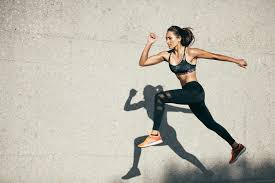
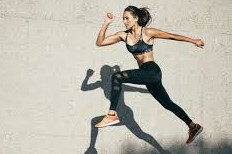
Routine card redesign, background color

diff --git a/routines.html b/routines.html
@@ -315,7 +315,7 @@
     </div>
 
     <div class="navbar-nav ml-auto">
-      <div class="dropdown">
+      <div class="dropdown user-menu">
         <span class="dropdown-toggle user text-white" data-toggle="dropdown">User</span>
         <ul class="dropdown-menu mt-2 px-3 py-2">
           <a id="dropdown-home" href="routines.html"><li>My profile</li></a>
@@ -327,49 +327,35 @@
 
   </nav>
 
-  <div class="container">
-    <div class="card ui mt-3 mb-3">
-      <div class="card-header ui"><h4 class="welcome-title">Welcome, <span class="user">User</span></h4></div>
-
-      <div class="card-body ui px-5">
-        <div class="title">
-          <h3 class="text-center my-routines-title"><i class="fas fa-spinner fa-spin ml-3"></i> </h3>
-        </div>
-        <div class="owl-carousel owl-theme mt-3 my-routines"></div>
-        <div class="title">
-          <h3 class="shared-title"></h3>
-        </div>
-        <div class="owl-carousel owl-theme mt-3 recommended"></div>
-      </div>
-
-
+  <div class="container" id="routines-container">
+    <div class="title">
+      <h3 class="my-routines-title"><i class="fas fa-spinner fa-spin ml-3"></i> </h3>
     </div>
+    <div class="owl-carousel owl-theme mt-3 my-routines"></div>
+    <div class="title">
+      <h3 class="shared-title"></h3>
+    </div>
+    <div class="owl-carousel owl-theme mt-3 recommended"></div>
     <div class="quote"></div>
     <div class="quote-author text-right"></div>
   </div>
 
 
-  <div class="template card routinecard text-white bg-info mb-3" style="max-width: 18rem;">
-    <div class="card-header px-2">
-      <div class="row no-gutters">
-        <div class="col-1"></div>
-        <div class="col-10 title-column"><i class="routinecard-title">Routine name</i></div>
-        <div class="col-1">
-          <div class="dropdown">
-            <i class="fas fa-ellipsis-v card-menu" data-toggle="dropdown"></i>
-            <ul class="dropdown-menu dropdown-menu-right mt-2">
-              <li class="card-option delete-routine px-2 py-1">Delete routine</li>
-              <li class="card-option edit-routine px-2 py-1">Edit routine</li>
-            </ul>
-          </div>
-        </div>
+  <div class="template routinecard text-white bg-info mb-3" style="max-width: 18rem;">
+    <div class="card-top px-2">
+      <div class="routinecard-title">Routine name</div>
+      <div class="dropdown">
+        <i class="fas fa-ellipsis-v card-menu" data-toggle="dropdown"></i>
+        <ul class="dropdown-menu dropdown-menu-right mt-2">
+          <li class="card-option delete-routine px-2 py-1">Delete routine</li>
+          <li class="card-option edit-routine px-2 py-1">Edit routine</li>
+        </ul>
       </div>
     </div>
-    <div class="card-body py-2">
-      <div id="type">Type:</div>
-      <div id="duration">Duration:</div>
-      <div class="launch-routine mt-2" data="routine-id">
-        Go <i class="fa fa-angle-double-right"></i>
+    <div class="card-bottom py-2">
+      <div class="clock"> &#128337;<span class="duration"></span></div>
+      <div class="launch-container">
+        <div class="launch-routine" data="routine-id" > Go <i class="fa fa-angle-double-right"></i></div>
       </div>
     </div>
   </div>            

diff --git a/styles/routines.css b/styles/routines.css
@@ -2,27 +2,92 @@
     margin: 0px
 }
 
+#routines-container {
+    margin-top: 50px;
+}
+
 .routinecard{ 
     text-align: center; 
     position: relative;  
-    color: #222;
+    border-radius: 5px;
+    overflow: hidden;
+    max-width: 250px;
 }
 
-.title-column{
-    height: 24px;
+.yoga {
+    background-image: url(../images/yoga.jpeg);
+}
+
+.strength {
+    background-image: url(../images/strength.jpg);
+}
+
+.cardio {
+    background-image: url(../images/cardio.jpeg);
+}
+
+.card-top {
+    height: 130px;
+    background-size: cover;
+    background-position: center;
+    position: relative;
+    display: flex;
+    justify-content: center;
+    align-items: center;
+    color: #ffffff;
+}
+
+.card-top::before {
+    content: "";
+    top: 0;
+    left: 0;
+    bottom: 0;
+    right: 0;
+    position: absolute;
+    background: rgba(0, 0, 0, 0.5);
+    z-index: 1;
+}
+
+.dropdown {
+    position: absolute;
+    top: 5px;
+    right: 10px;
+    z-index: 2;
 }
 
 .routinecard-title{
     display: inline-block;
     width: 100%;
-    text-overflow: ellipsis;
-    white-space: nowrap;
-    overflow: hidden;
+    word-wrap: normal;
+    z-index: 2;
+    font-size: 1.2em;
+    font-weight: bold;
+}
+
+.card-bottom {
+    display: flex;
+    color: #ffffff;
+    background-color: #0275d8;
+}
+
+.clock {
+    padding-left: 10px;
+}
+
+.launch-container {
+    color: #ffffff;
+    cursor: pointer;
+    flex-grow: 1;
+    display: flex;
+    justify-content: flex-end;
 }
 
 .launch-routine {
-    color: black;
-    cursor: pointer;
+    display: inline-block;
+    margin-right: 10px;
+    padding: 0px 5px;
+    text-align: center;
+    border-radius: 2px;
 }
 
 .launch-routine:hover {
@@ -34,14 +99,14 @@
 }
 
 .quote {
-    color: #ffffff;
+    color: #3d3d3d;
     padding: 2rem;
     font-size: 1.7rem;
     font-style: italic;
 }
 
 .quote-author {
-    color: #ffffff;
+    color: #3d3d3d;
     padding-right: 6rem;
     padding-bottom: 2rem; 
     font-size: 1.5rem;

diff --git a/scripts/userpage.js b/scripts/userpage.js
@@ -52,23 +52,29 @@ function createCards(param){
     var newRoutine = $("<div>");
     newRoutine.attr("data", routineArray[i]);
     newRoutine.html($(".template").html());
-    newRoutine.addClass("card routinecard text-white");
+    newRoutine.addClass("routinecard");
+    let cardTop = newRoutine.find(".card-top");
     switch(routineData[routineArray[i]].type){
       case "yoga":
-        newRoutine.addClass("bg-dark");
+        cardTop.addClass("yoga");
+        break;
       case "strength":
-        newRoutine.addClass("bg-danger");
+        cardTop.addClass("strength");
+        break;
       case "cardio":
-        newRoutine.addClass("bg-warning");
+        cardTop.addClass("cardio");
+        break;
       case "fun":
-        newRoutine.addClass("bg-success");
+        cardTop.addClass("fun");
+        break;
       default:
-        newRoutine.addClass("bg-secondary");
+        cardTop.addClass("fun");
+        break;
     };
 
     newRoutine.find(".routinecard-title").text(routineData[routineArray[i]].name);
     newRoutine.find("#type").text("Type: " + routineData[routineArray[i]].type.charAt(0).toUpperCase() + routineData[routineArray[i]].type.substring(1));
-    newRoutine.find("#duration").text("Duration: " + timeConverter(parseInt(routineData[myRoutines[i]].duration)));
+    newRoutine.find(".duration").text(timeConverter(parseInt(routineData[myRoutines[i]].duration)));
     $(".my-routines").append(newRoutine);
   }
   $(".my-routines").owlCarousel({
@@ -76,9 +82,11 @@ function createCards(param){
     margin:10,
     responsive:{
       0:{
-        items:1
+        margin: 10,
+        items: 1,
+        stagePadding: 30
       },
-      450:{
+      400:{
         items:2
       },
       768:{

diff --git a/styles/layout.css b/styles/layout.css
@@ -13,12 +13,16 @@
     background: #F8F9FA;
 }
 
+.navbar {
+    position: relative !important;
+}
+
 .navbar-brand{
     font-weight: bold;
 }
 
 body {
-    background: rgb(1, 52, 107);
+    background: #F0F4F6;
     font-family: sans-serif;
 }
 
@@ -34,6 +38,12 @@ body {
 
 .user, #log-out {
     cursor: pointer;
+}
+
+.user-menu {
+    position: absolute;
+    top: 50%;
+    transform: translateY(-50%);
 }
 
 .dropdown-menu{

diff --git a/styles/routineplayer.css b/styles/routineplayer.css
@@ -107,7 +107,7 @@ cursor: pointer;
     line-height: 200px;
     vertical-align: middle;
     display: inline-block;
-    background: rgb(0, 134, 187);
+    background-color: #0275d8;
     color: #ffffff;
     font-size: 5rem;
     font-weight: bold;
